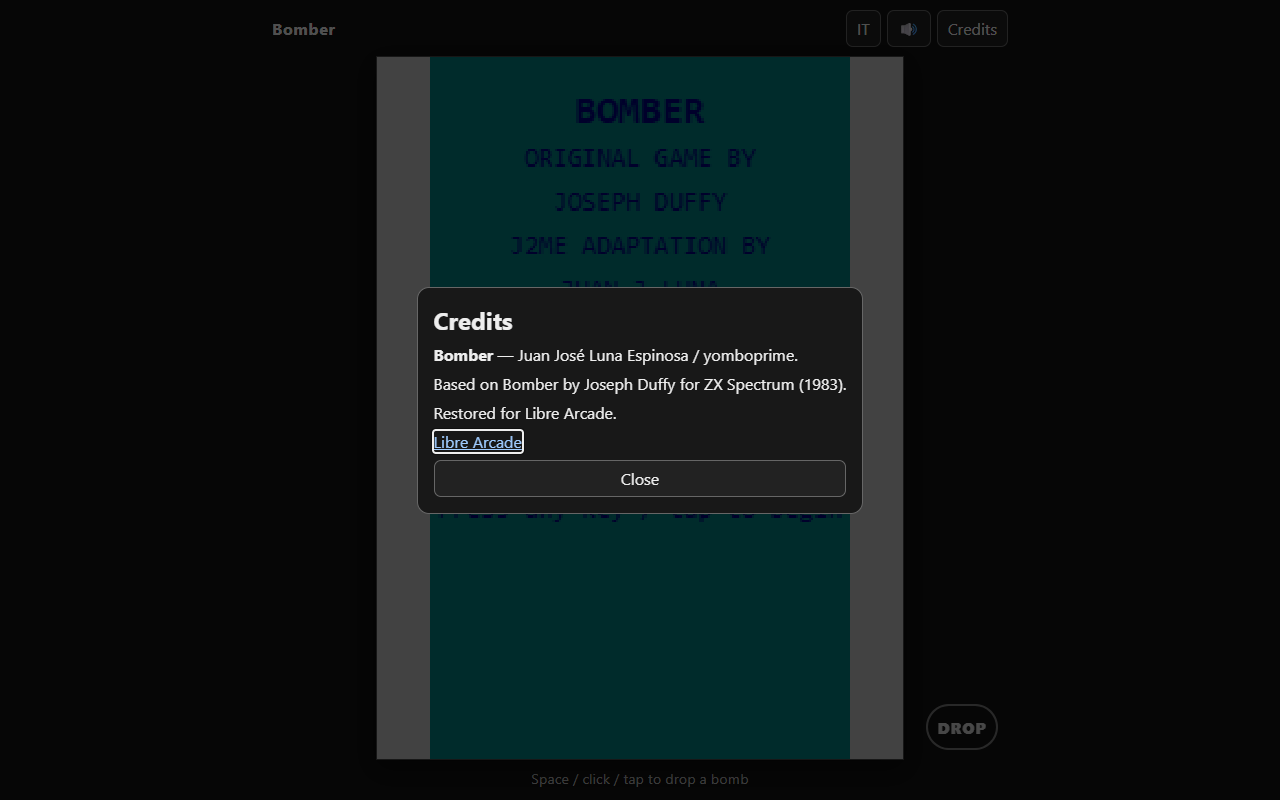
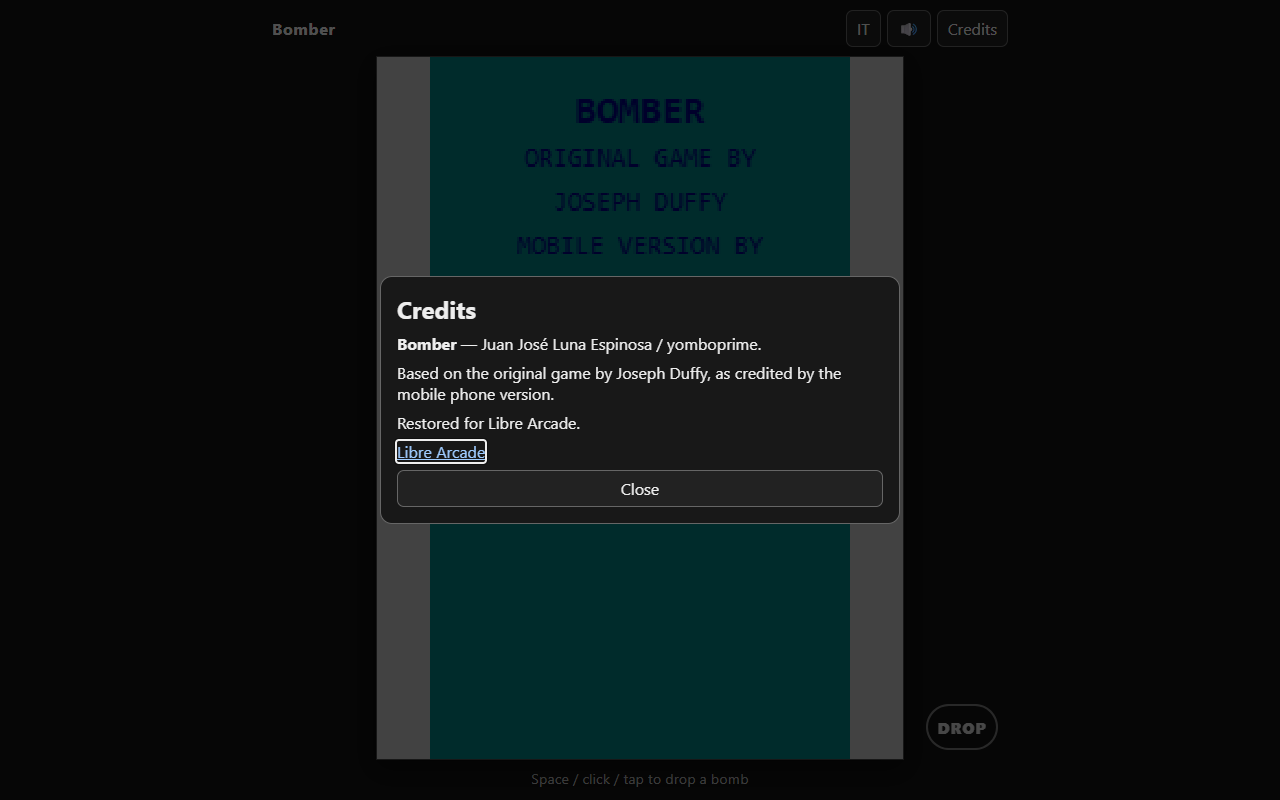
UI improvement

Changed region(s): [[0.2812, 0.3438, 0.7188, 0.6562], [0.4062, 0.2812, 0.5938, 0.3125]]

diff --git a/bomber/public/src/i18n.js b/bomber/public/src/i18n.js
@@ -1,4 +1,4 @@
 export const STRINGS={
- en:{credits:'Credits',close:'Close',drop:'DROP',hint:'Space / click / tap to drop a bomb',score:'SCORE',landings:'LANDINGS',hiscore:'HI-SCORE',press:'Press any key / tap to begin',originalBy:'ORIGINAL GAME BY',adaptationBy:'J2ME ADAPTATION BY',genealogy:'Based on the original game by Joseph Duffy, as credited by the J2ME version.',restoration:'Restored for Libre Arcade.',controls:'Game controls',gameArea:'Bomber game area',changeLanguage:'Change language',audio:'Audio'},
- it:{credits:'Crediti',close:'Chiudi',drop:'BOMBA',hint:'Spazio / clic / tap per sganciare una bomba',score:'PUNTI',landings:'ATTERRAGGI',hiscore:'RECORD',press:'Premi un tasto / tocca per iniziare',originalBy:'GIOCO ORIGINALE DI',adaptationBy:'ADATTAMENTO J2ME DI',genealogy:'Basato sul gioco originale di Joseph Duffy, come indicato dalla versione J2ME.',restoration:'Restaurato per Libre Arcade.',controls:'Controlli di gioco',gameArea:'Area di gioco di Bomber',changeLanguage:'Cambia lingua',audio:'Audio'}
+ en:{credits:'Credits',close:'Close',drop:'DROP',hint:'Space / click / tap to drop a bomb',score:'SCORE',landings:'LANDINGS',hiscore:'HI-SCORE',press:'Press any key / tap to begin',originalBy:'ORIGINAL GAME BY',adaptationBy:'MOBILE VERSION BY',genealogy:'Based on the original game by Joseph Duffy, as credited by the mobile phone version.',restoration:'Restored for Libre Arcade.',controls:'Game controls',gameArea:'Bomber game area',changeLanguage:'Change language',audio:'Audio'},
+ it:{credits:'Crediti',close:'Chiudi',drop:'BOMBA',hint:'Spazio / clic / tap per sganciare una bomba',score:'PUNTI',landings:'ATTERRAGGI',hiscore:'RECORD',press:'Premi un tasto / tocca per iniziare',originalBy:'GIOCO ORIGINALE DI',adaptationBy:'VERSIONE MOBILE DI',genealogy:'Basato sul gioco originale di Joseph Duffy, come indicato nella versione per cellulari.',restoration:'Restaurato per Libre Arcade.',controls:'Controlli di gioco',gameArea:'Area di gioco di Bomber',changeLanguage:'Cambia lingua',audio:'Audio'}
 };

diff --git a/bomber/public/index.html b/bomber/public/index.html
@@ -30,7 +30,7 @@
     <div class="dialog-inner">
       <h2 data-i18n="credits">Credits</h2>
       <p><strong>Bomber</strong> — Juan José Luna Espinosa / yomboprime.</p>
-      <p data-i18n="genealogy">Based on the original game by Joseph Duffy, as credited by the J2ME version.</p>
+      <p data-i18n="genealogy">Based on the original game by Joseph Duffy, as credited by the mobile phone version.</p>
       <p data-i18n="restoration">Restored for Libre Arcade.</p>
       <p><a href="https://linkingtechnologies.github.io/libre-arcade/" target="_blank" rel="noopener">Libre Arcade</a></p>
       <button id="closeCredits" type="button" data-i18n="close">Close</button>

diff --git a/bomber/CHANGELOG.md b/bomber/CHANGELOG.md
@@ -8,7 +8,7 @@ First release in Libre Arcade, built on the restoration package's "Initial Libre
 - Preserved the original source under `reference/bomber-1.0/` (`GameCanvasBomber.java`, `Bomber.java`, the GPL text, the JAD and the manifest), with the archive's SHA-256, a checksum list for the preserved files and a manifest of the archive's 12 files. The two Java files are CRLF and are kept byte for byte (`.gitattributes`). The archive's PNG resources, jar and compiled classes are not redistributed.
 - Added an executable oracle: the original loop is compiled unmodified with stand-ins for the MIDP classes and a `Thread` class that makes its sleeps virtual (`test/java-oracle/`), and the port is compared with it after every iteration. A recording of 750,000 iterations (1,540 games, 1,290 crashes, 93 landings, 37,474 bomb impacts) replays in `npm test` with every state, city, tone and wait identical; `npm run test:live` runs the original again. The port's random generator also reproduces `java.util.Random` for 7 seeds and every bound from 1 to 100.
 - Ran the archive's own compiled class (18 December 2008) through the oracle too, by rewriting its `java.lang.Thread` reference in memory (`BOMBER_CLASS`, `redirectThread()` in `tools/java-oracle.mjs`): the same 750,000 iterations as the source build, and the port agrees after every one. The class itself is not redistributed. The `Graphics` stand-in's `drawImage` now returns `void`, as the binary's descriptor requires.
-- Added the original's title credit lines ("ORIGINAL GAME BY JOSEPH DUFFY", "J2ME ADAPTATION BY JUAN J LUNA") to the title screen, translated into Italian for the Italian interface. The package's title screen did not show them.
+- Added the original's two title credits to the title screen: "ORIGINAL GAME BY JOSEPH DUFFY" and the credit to Juan J Luna, worded "MOBILE VERSION BY" instead of the original's "J2ME ADAPTATION BY", which is jargon for a player; Italian versions of both. The Credits dialog likewise says "mobile phone version". The package's title screen did not show these credits.
 - A press is now remembered until the next turn, so a tap shorter than a turn (141 ms) still drops a bomb. The original reads the key only while it is down and loses shorter presses, and the first version of the port did the same (12 to 16 of 25 presses of 30 ms registered in a browser test); now 25 of 25 key presses do, down to 5 ms, and so do 20 of 20 pointer presses of 15 ms on the canvas and on the DROP button. The held state is now also set before the audio context is awaited, so a key released while the context starts cannot stay "held" (a race that was possible in principle). A deliberate difference from the original, recorded in the port map; the game rules and the oracle are unchanged.
 - Added `window.__bomber`, exposed only with `?qa=1` or `?seed=`, so that automated browser tests can read the game state.
 - Joined the Libre Arcade collection: the files moved into `public/`, the single test became `test/parity.test.mjs`, and the collection scaffolding was added (`package.json` scripts, `scripts/serve.mjs`, `scripts/build.mjs`, an ESLint config, `.gitignore`, the GoatCounter snippet, the "Play here" link, the provenance, archaeology and port-map documents). The licence text is now the full GPL version 3.

diff --git a/bomber/specs/port-map.md b/bomber/specs/port-map.md
@@ -36,7 +36,7 @@ The archive's `classes/GameCanvasBomber.class` (dated 18 December 2008, three da
 | A crash draws one random plane frame per flash, 30 in all | `app.js` draws one per 100 ms step, 30 in a normal run | Only with `?seed=`: if a browser frame is dropped, the random stream of the next city drifts. Normal play is seeded from the clock |
 | Sleeps 141 ms after each iteration's work | A fixed 141 ms timer | The port is never slower than the original on a slow device |
 | One key, read with `getKeyStates()` | Space, Enter, click, tap or the DROP button; a press is remembered until the next tick | **A deliberate difference, making the game easier on short taps.** The original's first call per iteration discards latched presses, so a press only counts if the key is down when the second call runs and a press shorter than a tick (141 ms) can be lost. The port first did the same (measured in a browser, two runs of 25 presses each: 12 to 16 of 25 presses of 30 ms and 14 to 20 of 25 of 70 ms registered). It now keeps a press until the next tick, so every press with no bomb in flight drops one: 25 of 25 key presses at 5, 30, 70 and 150 ms and 20 of 20 pointer presses of 15 ms on the canvas and on the DROP button. Holding the key still works. The oracle is not affected: the key presses are its input, not something the port decides |
-| The title card names "ORIGINAL GAME BY JOSEPH DUFFY" and "J2ME ADAPTATION BY JUAN J LUNA" | The same lines, translated into Italian for the Italian interface (names unchanged) | The package's title screen lacked them; they were added |
+| The title card names "ORIGINAL GAME BY JOSEPH DUFFY" and "J2ME ADAPTATION BY JUAN J LUNA" | The same two credits, with plain wording for the second ("MOBILE VERSION BY", "VERSIONE MOBILE DI" in Italian) and the first translated ("GIOCO ORIGINALE DI"); names unchanged | The package's title screen lacked them; they were added. "J2ME" is kept out of the player-facing text (the Credits dialog says "mobile phone version") because it is jargon; the documents keep the technical term |
 | Graphics from four PNG files | Canvas primitives, one "crashed" look for plane frames 1 to 3 | None on the rules |
 | Tones through `Manager.playTone` | Square waves through Web Audio from the same note numbers and durations | The sound differs from a phone's; the data is the original's |
 

diff --git a/bomber/THIRD_PARTY_NOTICES.md b/bomber/THIRD_PARTY_NOTICES.md
@@ -13,7 +13,7 @@ The JavaScript game state in `public/src/game-state.js` is a port of the loop in
 
 Several historical programs are called Bomber. They include a ZX Spectrum game attributed to Joseph Duffy and dated 1983 in World of Spectrum's catalogue (<https://worldofspectrum.org/archive/software/games/bomber-spectrum-computing>), other Spectrum games of the same name published in the following years (one of them by Paul Shreeve, 1984), and separate Java ME projects such as `j2mebomber`.
 
-Bomber J2ME states on its own title card "ORIGINAL GAME BY JOSEPH DUFFY", and the port shows the same lines. That is the historical link documented by the game itself, and it is the basis of the attribution used here. The SourceForge project page adds that the game is "based on a Spectrum 48k classic original game". It is not independently shown that the Bomber by Joseph Duffy now catalogued in the Spectrum archives is exactly the program the J2ME author took as his reference: the identification is plausible, not certified. A direct comparison of the Spectrum game with Bomber J2ME could strengthen it; it is not needed to preserve the Java ME version faithfully.
+Bomber J2ME states on its own title card "ORIGINAL GAME BY JOSEPH DUFFY" (and "J2ME ADAPTATION BY JUAN J LUNA"); the port's title card carries both credits, with plain wording in place of the technical term ("MOBILE VERSION BY"). That is the historical link documented by the game itself, and it is the basis of the attribution used here. The SourceForge project page adds that the game is "based on a Spectrum 48k classic original game". It is not independently shown that the Bomber by Joseph Duffy now catalogued in the Spectrum archives is exactly the program the J2ME author took as his reference: the identification is plausible, not certified. A direct comparison of the Spectrum game with Bomber J2ME could strengthen it; it is not needed to preserve the Java ME version faithfully.
 
 No code, graphics or sound of any Spectrum game is used here.
 
